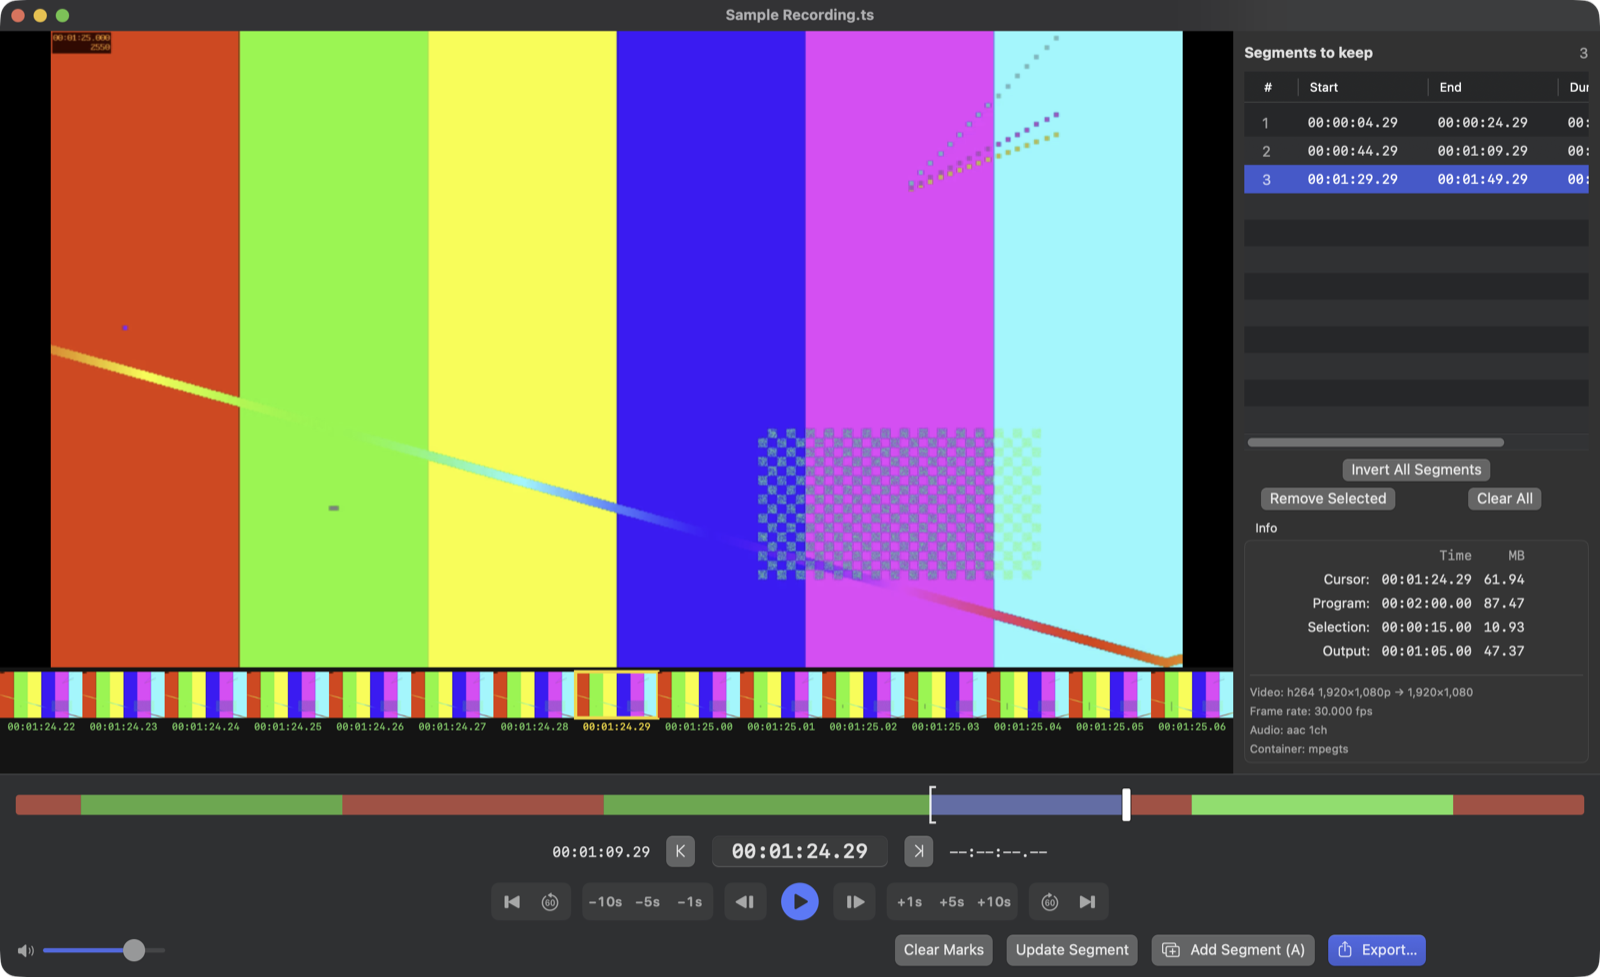
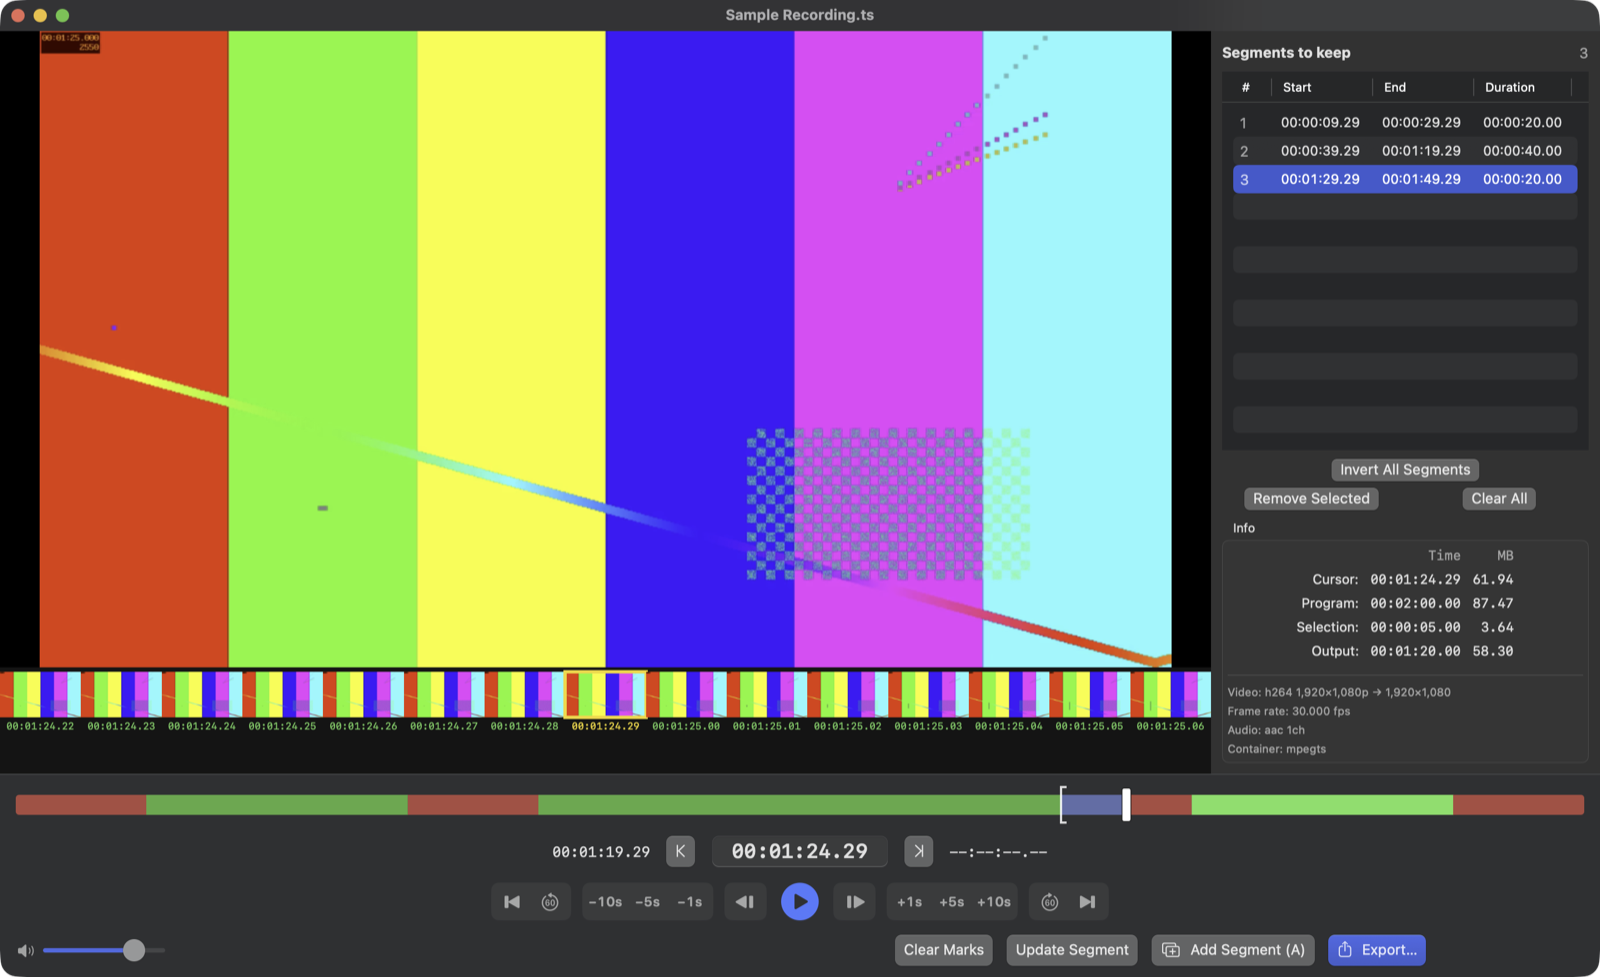
Fit segment table columns so Duration shows in full

diff --git a/Sources/K24Cutter/SegmentPanel.swift b/Sources/K24Cutter/SegmentPanel.swift
@@ -15,10 +15,13 @@ struct SegmentPanel: View {
                 TableColumn("#") { s in
                     Text("\((model.segments.firstIndex(of: s) ?? 0) + 1)").foregroundStyle(.secondary)
                 }
-                .width(24)
-                TableColumn("Start") { s in Text(model.fmt(s.start)).font(.system(.callout, design: .monospaced)) }
-                TableColumn("End") { s in Text(model.fmt(s.end)).font(.system(.callout, design: .monospaced)) }
-                TableColumn("Duration") { s in Text(model.fmt(s.duration)).font(.system(.callout, design: .monospaced)) }
+                .width(20)
+                TableColumn("Start") { s in timeCell(s.start) }
+                    .width(74)
+                TableColumn("End") { s in timeCell(s.end) }
+                    .width(74)
+                TableColumn("Duration") { s in timeCell(s.duration) }
+                    .width(74)
             }
             .contextMenu(forSelectionType: Segment.ID.self) { ids in
                 if ids.count == 1, let id = ids.first {
@@ -50,6 +53,12 @@ struct SegmentPanel: View {
         }
         .padding(10)
         .background(Color(nsColor: .windowBackgroundColor))
+    }
+
+    private func timeCell(_ t: Double) -> some View {
+        Text(model.fmt(t))
+            .font(.callout.monospacedDigit())
+            .lineLimit(1)
     }
 }
 

diff --git a/Sources/K24Cutter/ContentView.swift b/Sources/K24Cutter/ContentView.swift
@@ -20,7 +20,7 @@ struct ContentView: View {
                 .background(Color.black)
 
                 SegmentPanel()
-                    .frame(width: 330)
+                    .frame(width: 350)
             }
             Divider()
             ControlPanel()
